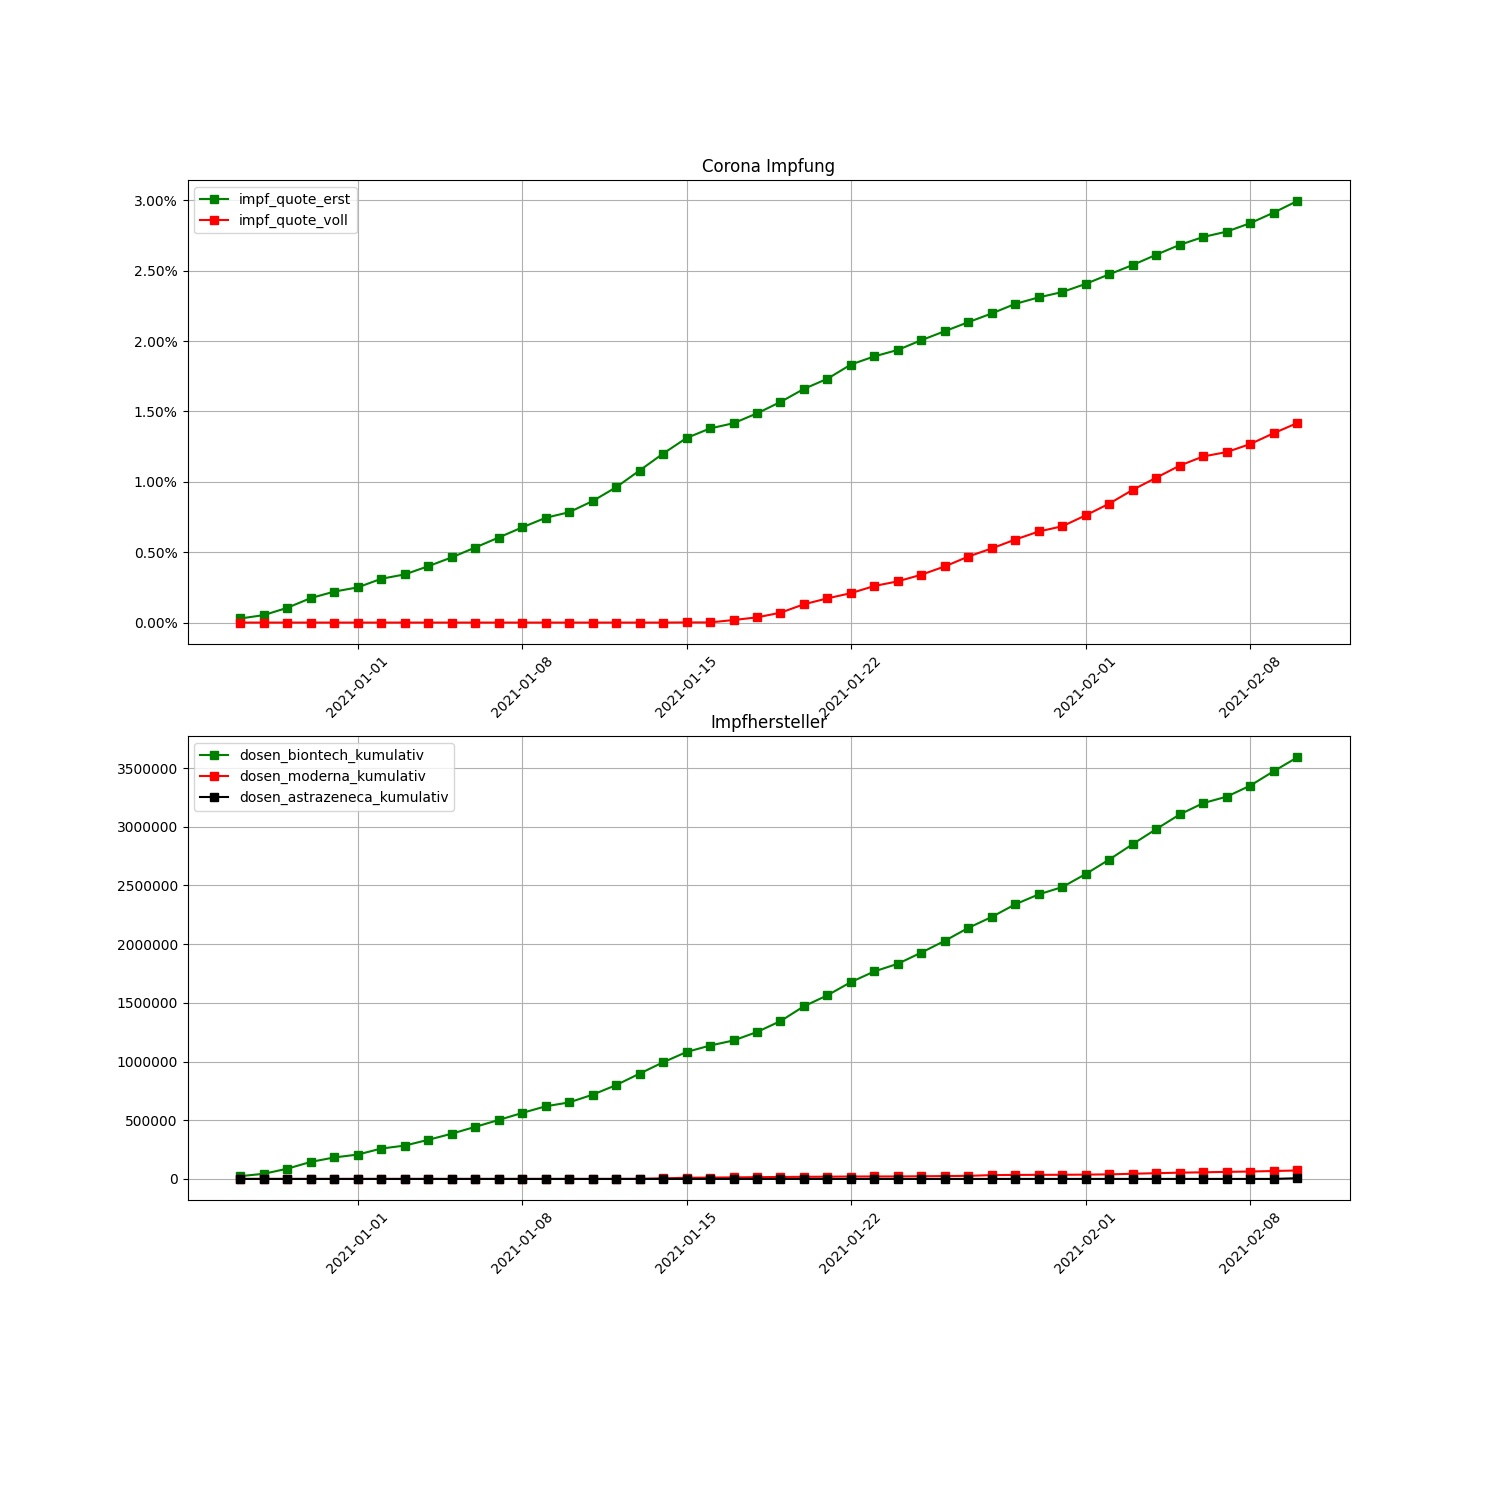
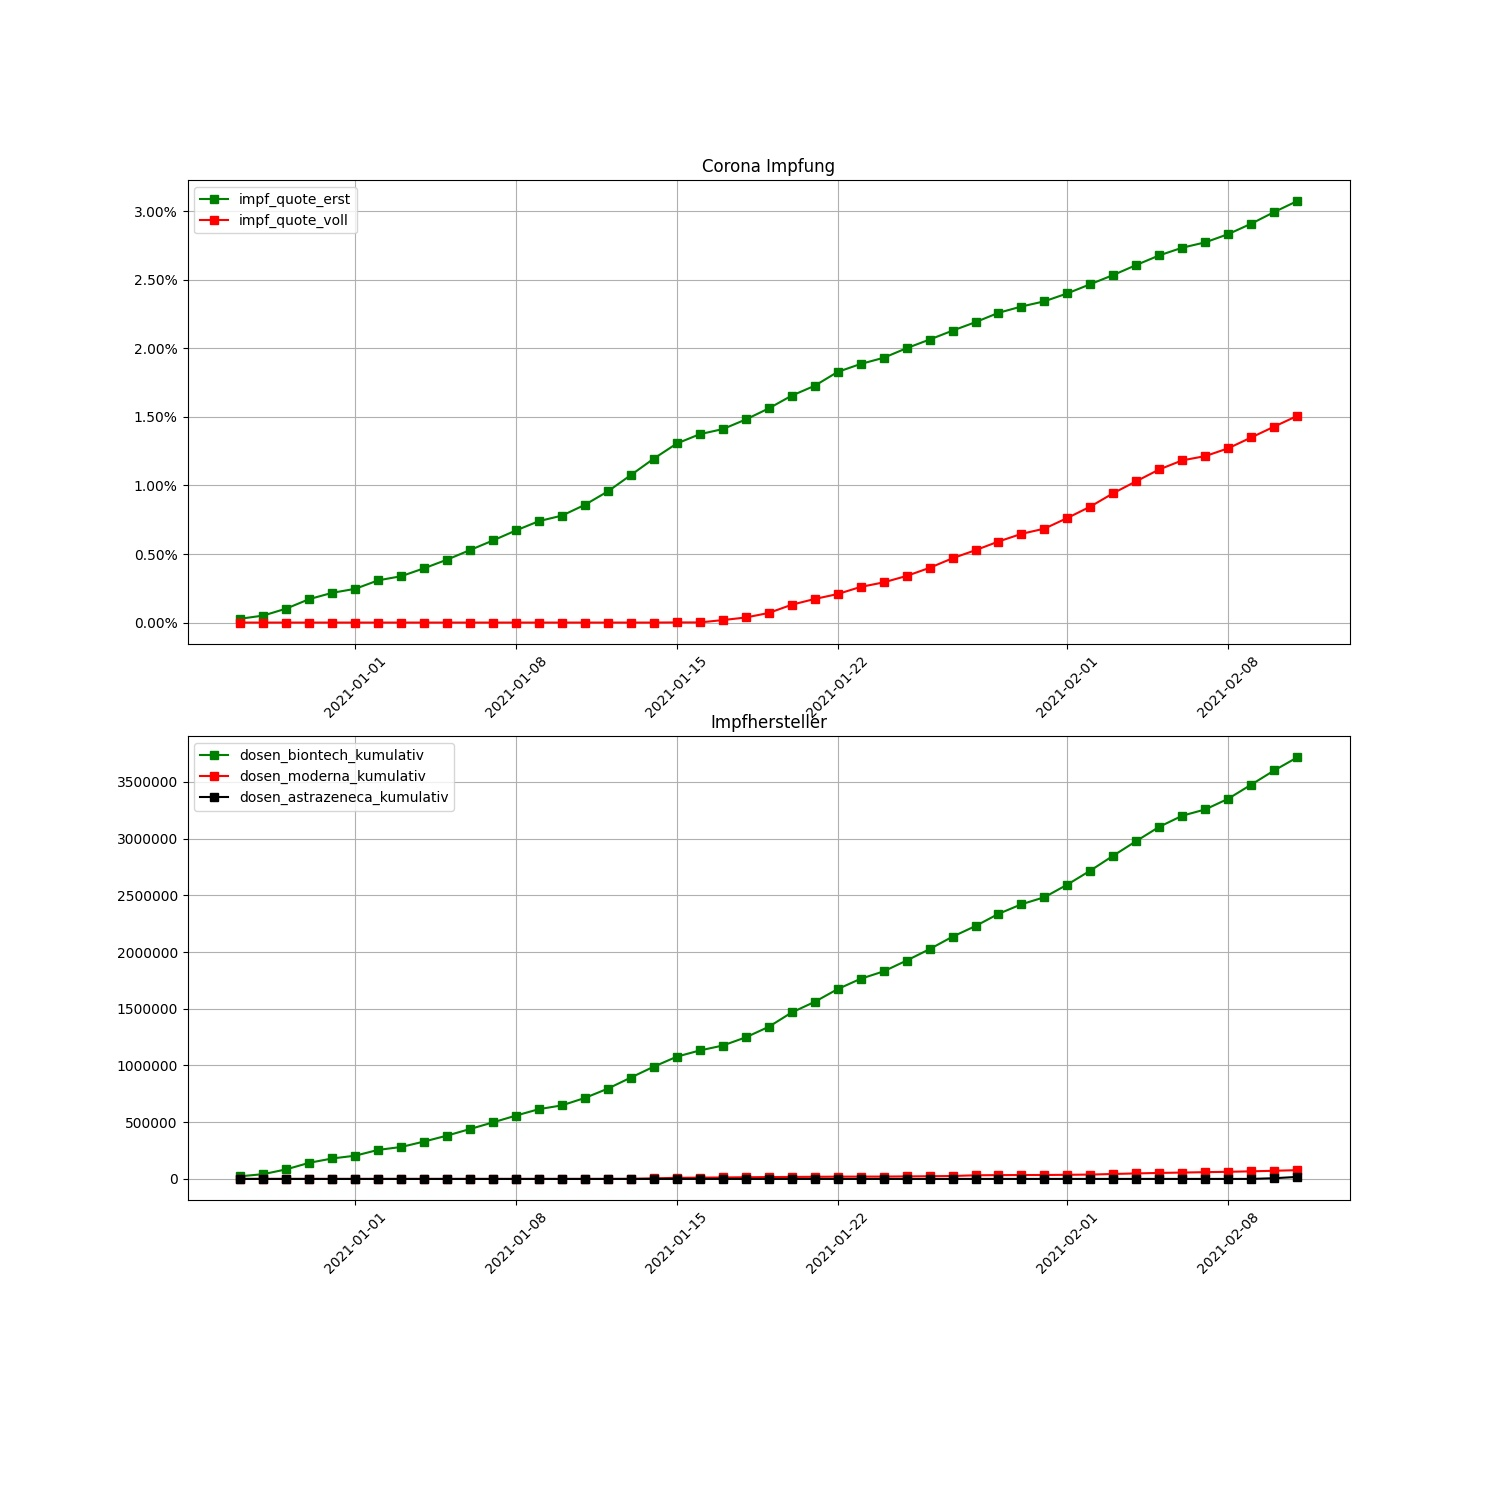
Crontab commit

diff --git a/Readme.md b/Readme.md
@@ -1,19 +1,19 @@
-# Corona vaccine Germany - Stand 2021-02-10
+# Corona vaccine Germany - Stand 2021-02-11
 ## Dashboard by [Simon Hamacher](https://www.shamacher.eu)
 ## Impfstoffe Übersicht
 **Impfstoffhersteller** | **verimpfte Dosen**
 -------- | :--------:
-Biontech | 3591012
-Moderna | 72139
-Astrazeneca | 5997
+Biontech | 3714846
+Moderna | 77326
+Astrazeneca | 17831
 
 
 ## Quoten
-**Total Verimpfte Dosen:** | 3669148
+**Total Verimpfte Dosen:** | 3810003
 -------- | :--------:
-**Erst-Impfquote** | 2.99 %
-**Voll-Impfquote** | 1.42 %
-**Imfungen Durchschnitt** | 79764.09 pro Tag
+**Erst-Impfquote** | 3.07 %
+**Voll-Impfquote** | 1.51 %
+**Imfungen Durchschnitt** | 81063.89 pro Tag
 ## Graphen
 <img src="Impfungen-Corona-01.jpg" alt="Corona-1" title="optionaler Titel" />
 <img src="Impfungen-Corona-02.jpg" alt="Corona-2" title="optionaler Titel" />
